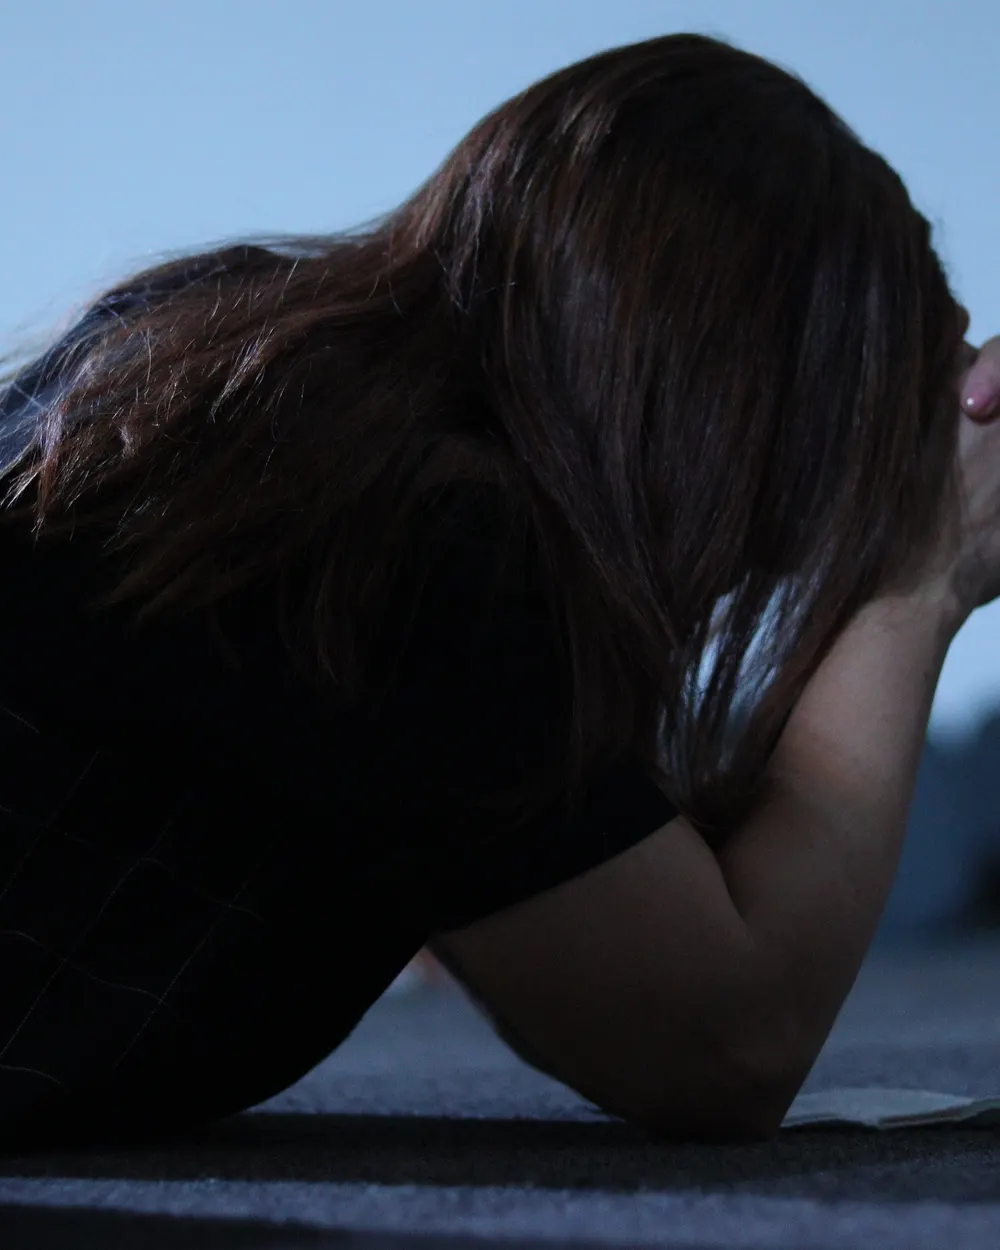
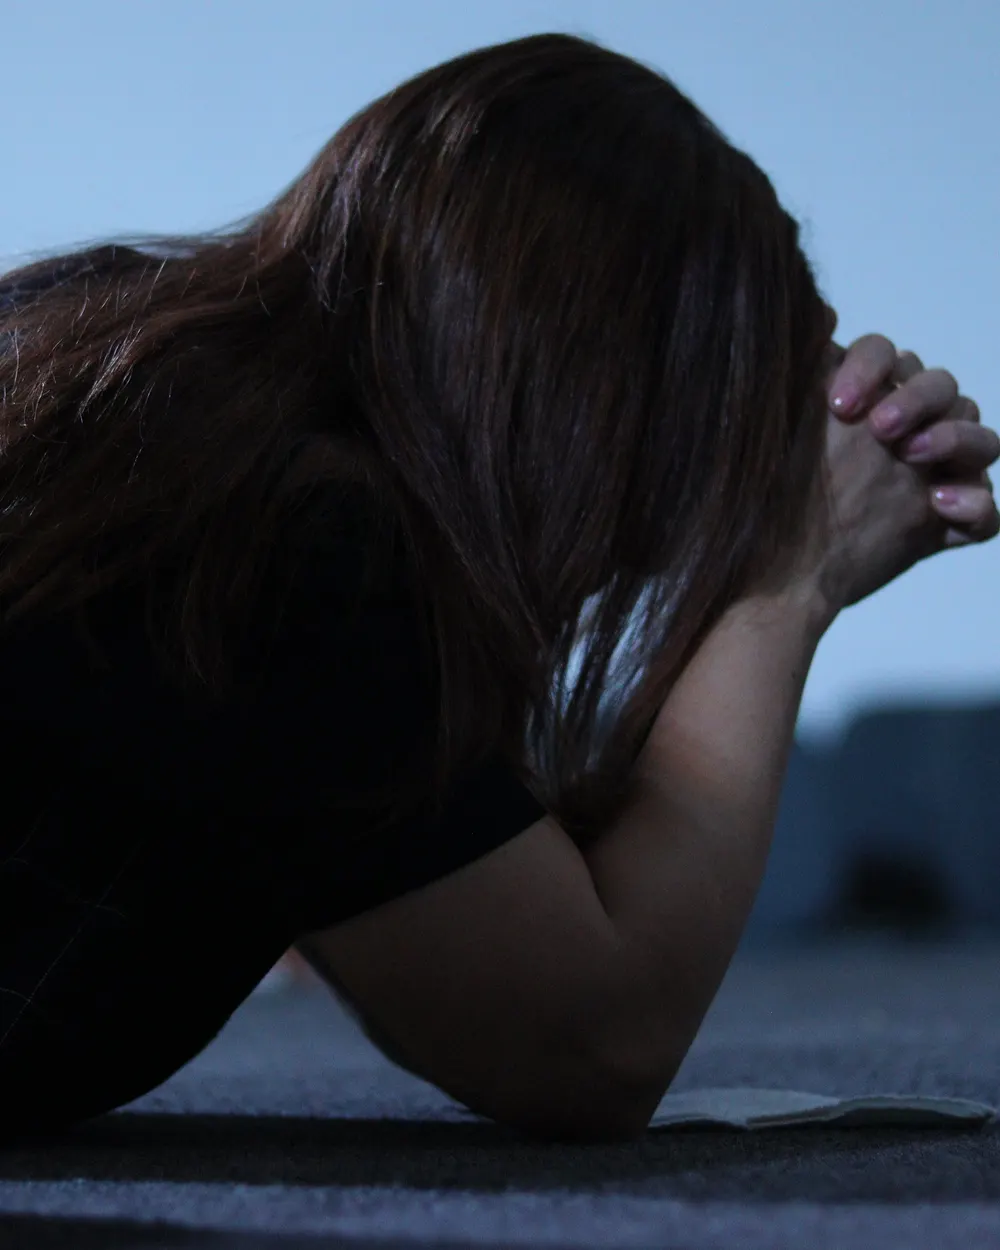
feat: troca imagem do primeiro slide do hero pela bandeira de Israel; ajusta recorte da foto de oracao
Primeiro slide da home passa a usar a foto do altar decorado com
flores e a bandeira de Israel, no lugar da fachada (que continua
sendo usada como fundo do rodape).

Ajusta o recorte mobile da foto de oracao: a mao da mulher estava
sendo cortada pelo recorte adicional que o navegador aplica em telas
estreitas. Desloca a janela de recorte para a direita na imagem
original, dando mais margem e deixando a mao totalmente visivel.

diff --git a/src/app/page.tsx b/src/app/page.tsx
@@ -21,9 +21,9 @@ const heroSlides: HeroSlide[] = [
       },
     ],
     image: {
-      desktop: "/hero/fachada-desktop.webp",
-      mobile: "/hero/fachada-mobile.webp",
-      alt: "Fachada da Igreja Nova Terra à noite, com o logo iluminado",
+      desktop: "/hero/bandeira-desktop.webp",
+      mobile: "/hero/bandeira-mobile.webp",
+      alt: "Altar da Igreja Nova Terra decorado com flores e a bandeira de Israel",
     },
   },
   {
